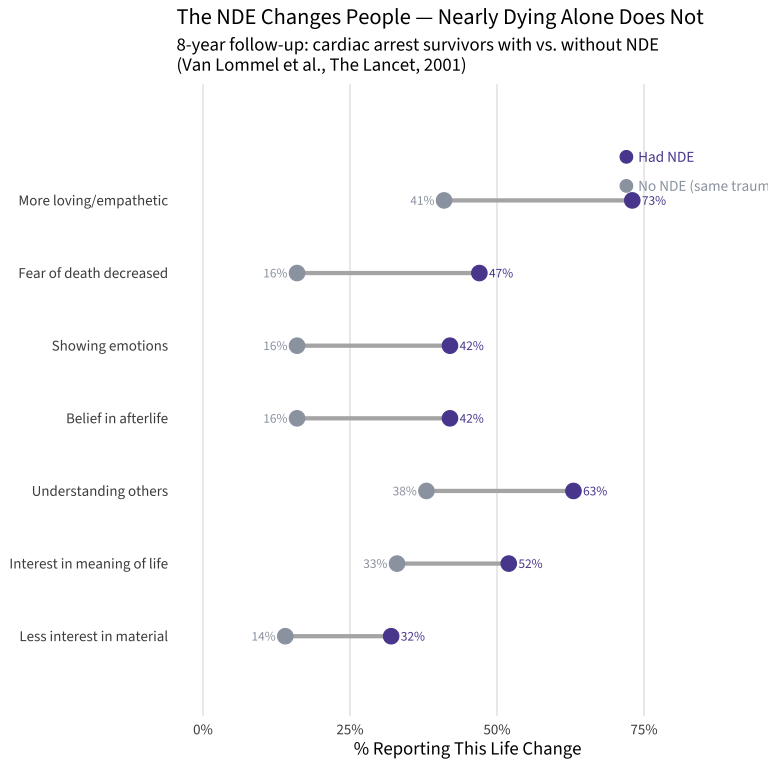
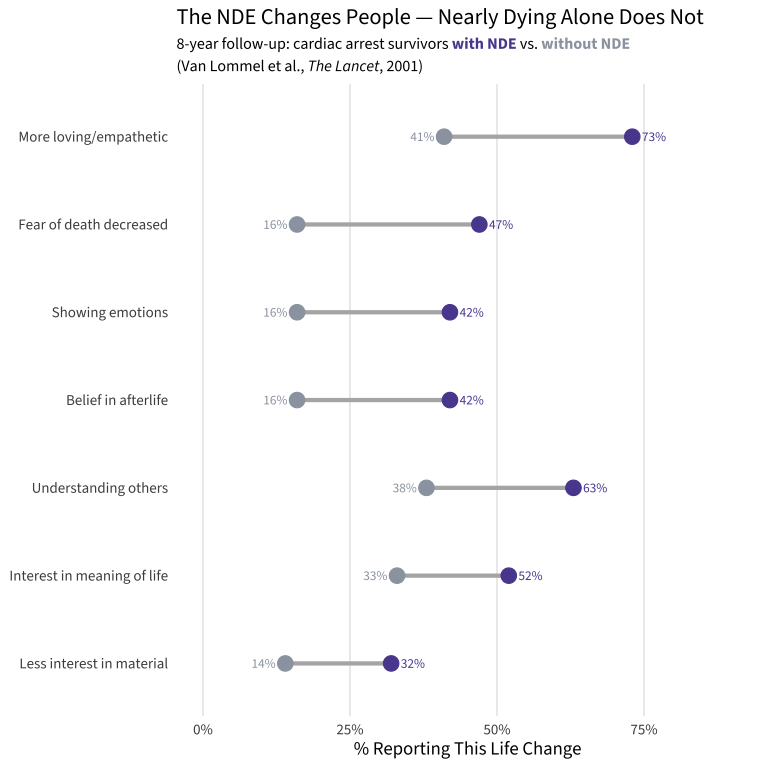
Move dumbbell chart legend into subtitle with colored text

diff --git a/2026/2026_07_21/README.md b/2026/2026_07_21/README.md
@@ -616,20 +616,14 @@ ggplot(life_data) +
   geom_text(aes(x = control_pct, y = change, label = paste0(control_pct, "%")),
             hjust = 1.4, size = 3.5, color = "#9CA3AF",
             family = "source_sans") +
-  annotate("point", x = 72, y = 7.6, color = "#5B4A9E", size = 4) +
-  annotate("text", x = 74, y = 7.6, label = "Had NDE", hjust = 0,
-           family = "source_sans", size = 4, color = "#5B4A9E") +
-  annotate("point", x = 72, y = 7.2, color = "#9CA3AF", size = 4) +
-  annotate("text", x = 74, y = 7.2, label = "No NDE (same trauma)", hjust = 0,
-           family = "source_sans", size = 4, color = "#9CA3AF") +
   scale_x_continuous(limits = c(0, 90), labels = percent_format(scale = 1)) +
-  coord_cartesian(ylim = c(0.5, 8), clip = "off") +
   labs(
     title = "The NDE Changes People — Nearly Dying Alone Does Not",
-    subtitle = "8-year follow-up: cardiac arrest survivors with vs. without NDE\n(Van Lommel et al., The Lancet, 2001)",
+    subtitle = "8-year follow-up: cardiac arrest survivors <span style='color:#5B4A9E;'>**with NDE**</span> vs. <span style='color:#9CA3AF;'>**without NDE**</span><br>(Van Lommel et al., *The Lancet*, 2001)",
     x = "% Reporting This Life Change", y = NULL
   ) +
   theme(
+    plot.subtitle = element_markdown(size = 12, lineheight = 1.4),
     panel.grid.major.y = element_blank(),
     panel.grid.minor = element_blank()
   )
